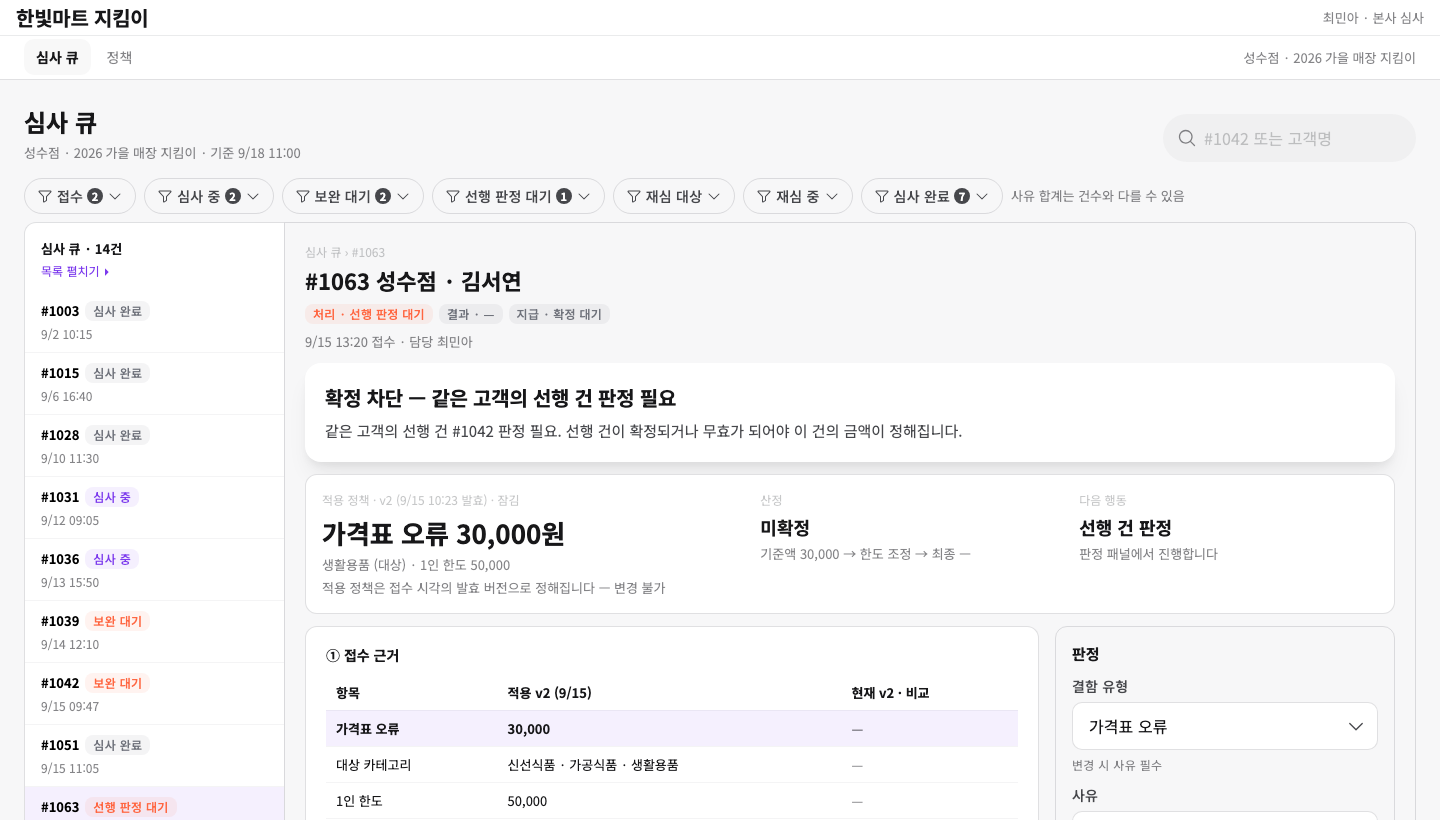
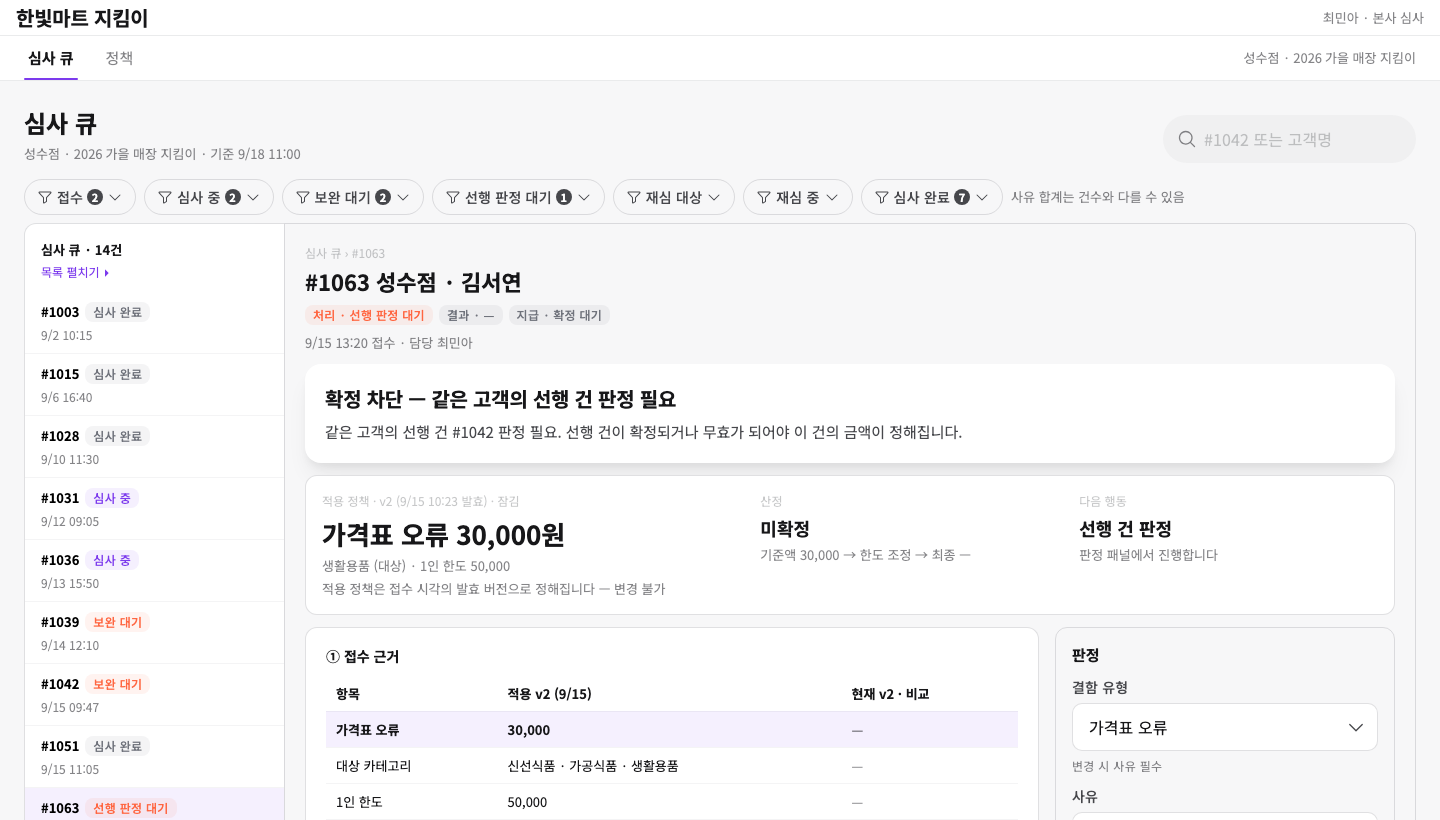
fix(app): 탭을 Iris Tabs 컴포넌트로 교체
심사 큐·정책 전환을 버튼으로 흉내 내고 있었다. 활성 탭이 옅은 회색
알약뿐이라 탭 줄이 상단바와 구분되지 않았다. Iris에 Tabs 컴포넌트가
있고(높이 44 · 밑줄 인디케이터 2 · role=tablist) 그걸 그대로 쓴다.
탭 줄과 본문 사이 경계선도 넣었다.

diff --git a/app/src/app.css b/app/src/app.css
@@ -7,12 +7,12 @@ button { font-family: inherit; }
 
 .shell { min-height: 100vh; }
 .user { font-size: 13px; color: var(--iris-semantic-label-alternative); }
-.tabs { display: flex; gap: 4px; align-items: center; height: 44px; padding: 0 24px;
+/* 탭 줄 — 탭 자체는 Iris Tabs가 그리고, 이 줄은 배치만 맡는다 */
+.tabbar { display: flex; align-items: center; gap: 24px; padding: 0 24px;
   background: var(--iris-semantic-background-normal-normal);
-  border-bottom: 1px solid var(--iris-semantic-line-normal-normal); }
-.tab { border: 0; background: none; padding: 8px 12px; font-size: 14px; cursor: pointer;
-  color: var(--iris-semantic-label-alternative); border-radius: var(--iris-radius-sm); }
-.tab.on { color: var(--iris-semantic-label-normal); font-weight: 700; background: var(--iris-semantic-fill-alternative); }
+  border-bottom: 1px solid var(--iris-semantic-line-solid-neutral); }
+.tabbar [role="tablist"] { flex: 0 0 auto; border-bottom: 0; gap: 24px; }
+.tabbar [role="tablist"] button { flex: 0 0 auto; padding: 0 4px; }
 .ctx { margin-left: auto; font-size: 13px; color: var(--iris-semantic-label-alternative); }
 
 main { padding: 24px; }
@@ -115,7 +115,7 @@ table.basis tr.emph td { background: var(--iris-semantic-background-status-info)
   .app-shell { height: 100vh; display: flex; flex-direction: column; overflow: hidden; }
   .app-shell > .site-nav, .app-shell > .app-frame { flex: 0 0 auto; }
   .app-shell .shell { flex: 1 1 auto; min-height: 0; display: flex; flex-direction: column; }
-  .app-shell .shell > .iris-top-navigation, .app-shell .tabs { flex: 0 0 auto; }
+  .app-shell .shell > [class*="iris-top"], .app-shell .tabbar { flex: 0 0 auto; }
   .app-shell main { flex: 1 1 auto; min-height: 0; overflow: auto; display: flex; flex-direction: column; }
   .app-shell .queue-page { flex: 1 1 auto; min-height: 0; display: flex; flex-direction: column; }
   .app-shell .page-head, .app-shell .counters { flex: 0 0 auto; }

diff --git a/app/src/App.tsx b/app/src/App.tsx
@@ -1,5 +1,5 @@
 import { useEffect, useState } from 'react';
-import { Button, Popup, TextField, Toast, TopNavigation } from '@hs2190.an/iris-react';
+import { Button, Popup, Tabs, TextField, Toast, TopNavigation } from '@hs2190.an/iris-react';
 import { Store, useStore } from './store/store';
 import { Queue, QueueEmptyPreview } from './ui/Queue';
 import { Detail } from './ui/Detail';
@@ -40,12 +40,11 @@ function Console() {
         title="한빛마트 지킴이"
         trailing={<span className="user">최민아 · 본사 심사</span>}
       />
-      <nav className="tabs">
-        {(['심사 큐', '정책'] as Tab[]).map((t) => (
-          <button key={t} className={tab === t ? 'tab on' : 'tab'} onClick={() => setTab(t)}>{t}</button>
-        ))}
+      <div className="tabbar">
+        <Tabs items={['심사 큐', '정책'] as const} value={tab}
+          onChange={(v) => setTab(v as Tab)} />
         <span className="ctx">성수점 · 2026 가을 매장 지킴이</span>
-      </nav>
+      </div>
 
       <main>
         {tab === '심사 큐' ? (
